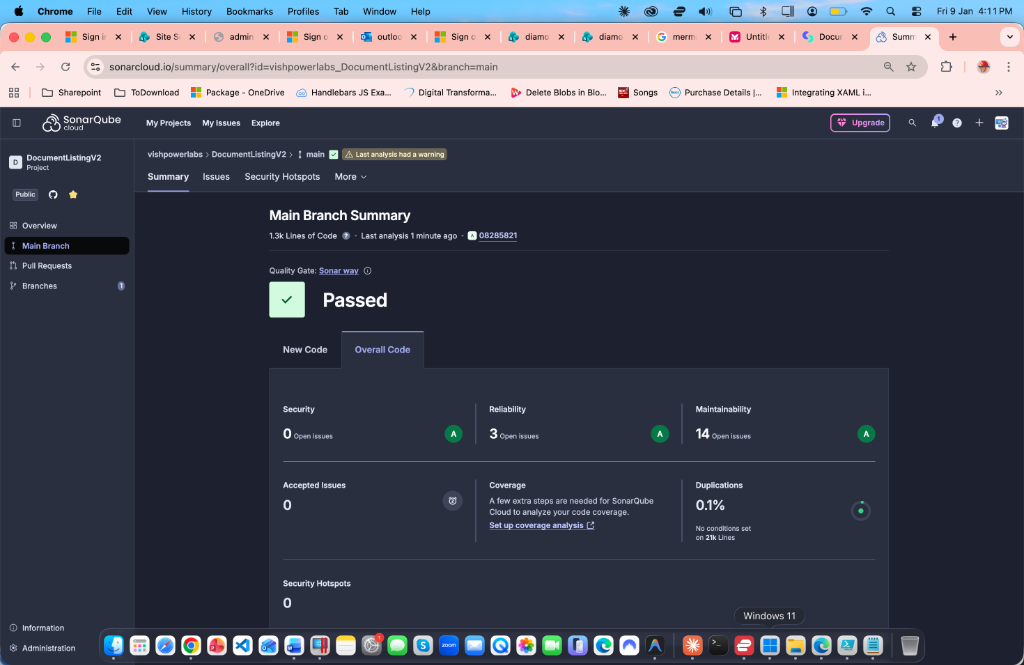
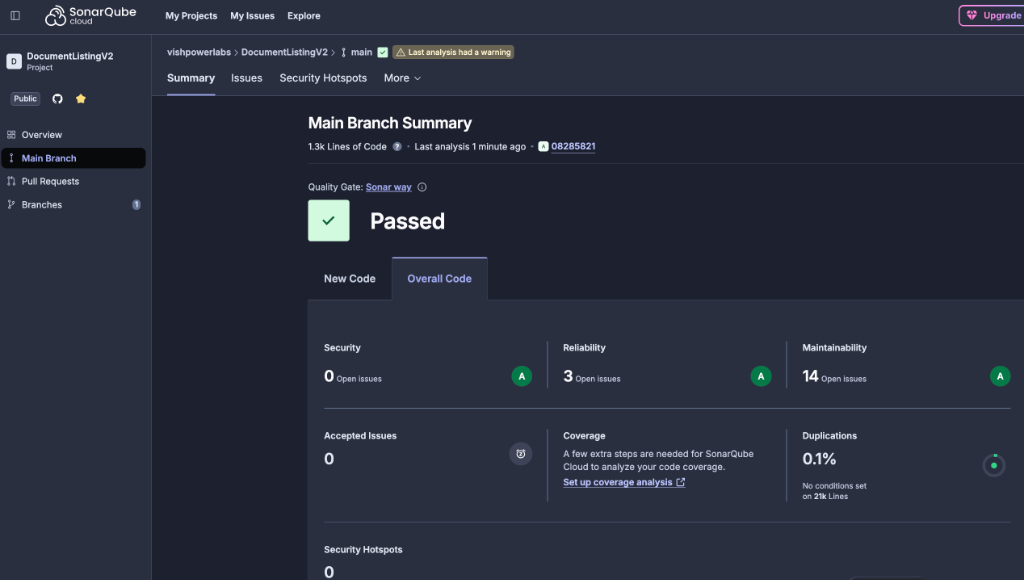
images

diff --git a/document-listing-v2/ARCHITECTURE.md b/document-listing-v2/ARCHITECTURE.md
@@ -98,11 +98,48 @@ Business logic is decoupled from the web part and handled by Power Automate flow
 Successful deployment requires strict adherence to the following configuration models.
 
 ### Web Part Configuration
-Administrators must configure the web part properties via the Edit Property Pane:
-1.  **Site Selection**: Choose **Source Site** (for documents) and **Request Site** (for logging).
-2.  **List Mapping**: Select the specific *Document Library* and *Request List*.
-3.  **Field Mapping**: Map internal field names (e.g., `Category`, `SubCategory`) to UI elements.
-4.  **Display Settings**: Customize Title, Description, and Header Opacity.
+
+The web part is configured via three primary groups in the Property Pane.
+
+#### 1. Display Settings
+Controls the visual header and text styling.
+
+| Property | Type | Description |
+| :--- | :--- | :--- |
+| **Web Part Title** | Text | Header title (e.g., "Company Policies"). |
+| **Title Font Size** | Dropdown | Size of the title text (16px - 32px). |
+| **Web Part Description** | Multiline | Subtitle or instructions for users. |
+| **Description Font Size** | Dropdown | Size of the description text (12px - 18px). |
+| **Header Opacity** | Slider | Transparency of the header background (0.0 - 1.0). |
+
+#### 2. Document Library Settings
+Configures the source of the documents.
+
+| Property | Type | Description |
+| :--- | :--- | :--- |
+| **Select Site** | Site Picker | The SharePoint site hosting the documents. |
+| **Source Document Library** | Dropdown | The specific library to display. |
+| **Category Field** | Dropdown | Column for Side Navigation grouping. |
+| **Sub-Category Field** | Dropdown | Column for Top Tabs grouping. |
+| **Description Field** | Dropdown | Column for document details/summary. |
+| **Items per page** | Text | Number of items to show per page (Pagination). |
+| **Pinned Column** | Dropdown | Column determining pinned status (Yes/No). |
+
+#### 3. Request Access Settings
+Configures the feedback and access tracking workflow.
+
+| Property | Type | Description |
+| :--- | :--- | :--- |
+| **Show Request Access Column** | Toggle | On/Off switch for the entire request feature. |
+| **Select Request Site** | Site Picker | The site hosting the tracking list. |
+| **Requests List** | Dropdown | The list where requests are logged. |
+| **Email Field** | Dropdown | Field to store requester's email. |
+| **File ID Field** | Dropdown | Field to store the requested Document ID. |
+| **Request ID Field** | Dropdown | Field to store the unique GUID. |
+| **Request Date Field** | Dropdown | Field to store the timestamp. |
+| **Reminder Field** | Dropdown | Field to track if a reminder was sent. |
+| **Already Requested Message** | Multiline | Toast message for duplicate requests. |
+| **Reminder Sent Message** | Text | Toast message for successful nudges. |
 
 ### Permission Requirements
 #### Source Document Library

diff --git a/document-listing-v2/PRESENTATION.md b/document-listing-v2/PRESENTATION.md
@@ -34,6 +34,28 @@ style: |
 
 ---
 
+# Problem Statement: The Challenge
+
+Organizing and managing access to critical documents in SharePoint often leads to frustration:
+
+1. **Discovery Issues**: Users struggle to find the right policy or SOP trapped in deep folder structures.
+2. **Access Blind Spots**: No visibility into *who* is accessing sensitive documents or *when*.
+3. **Manual Overhead**: Content owners are flooded with email requests for access approvals.
+4. **Inconsistent Brand**: Standard libraries look generic and don't match the corporate identity.
+
+---
+
+# The Solution: Order from Chaos
+
+**Document Listing V2** bridges the gap between chaos and efficiency.
+
+
+- **Centralized Catalog**: Organized by Category and Sub-Category for instant discovery.
+- **Automated Workflow**: Zero-touch access request handling.
+- **Audit Trail**: Full tracking of who requested, when, and feedback status.
+
+---
+
 # 1. Project Overview
 
 **Document Listing V2** is a persistent, theme-aware SPFx web part for displaying curated document catalogs.
